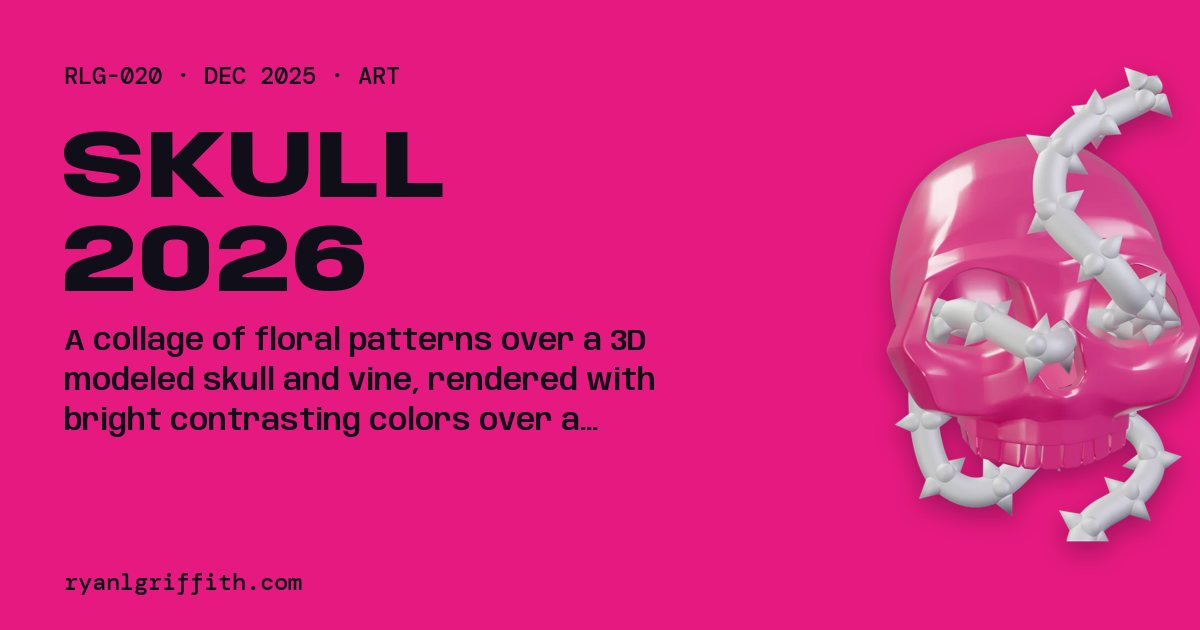
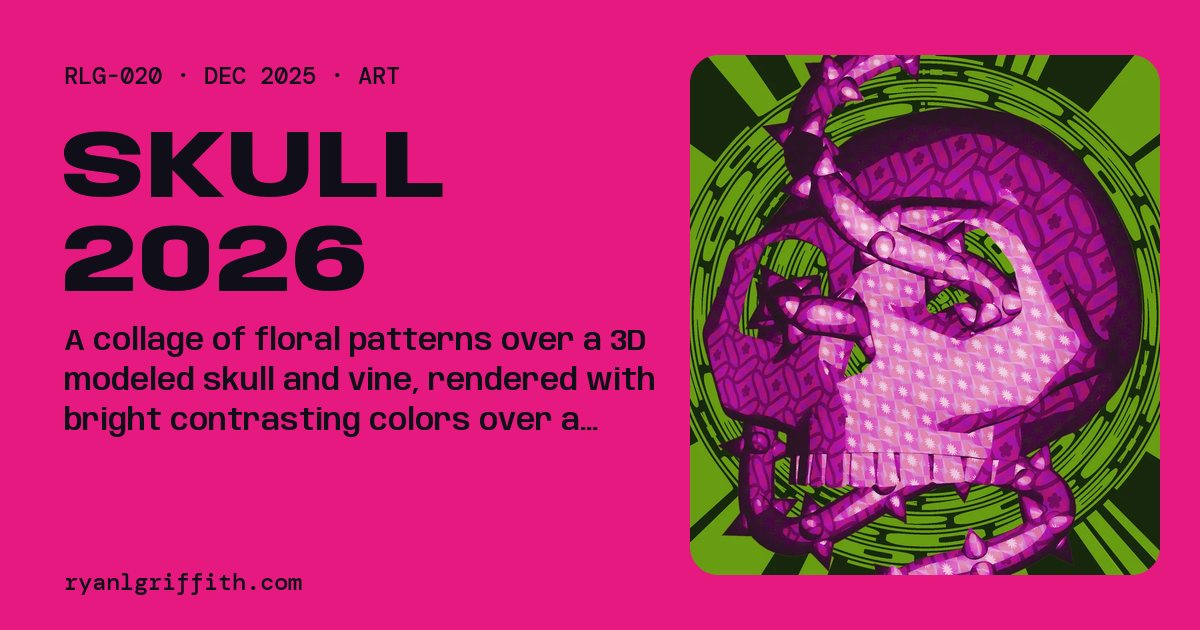
Remove the about desk; show Skull 2026's artwork, not a render
- About: the draggable desk is gone, along with everything only it used:
  the drag code in site.js, its styles, the six sprites in
  final/media/flair, the sprite step and clear_background() in
  build_final.py, and its two tests. The six source sprites in
  prototypes/_shared/media/archive are no longer tracked; they stay on
  disk for the Catalogue prototype.
- Skull 2026 uses a new "photo" cut-out kind in place of the Blender
  render: the artwork itself, square and opaque. Its cards show it
  colourised like any photo tile. Its project header shows it
  colourised in a framed square, with the true colours on hover. Its
  share card shows the artwork as-is. Only the skull's cut-out, its
  share card and its ProjectMeta row changed in the rebuild.

node prototypes/_tools/test_final.mjs --all-projects: 246 checks
passed, 0 failed (the two desk checks are gone).

diff --git a/final/assets/css/site.css b/final/assets/css/site.css
@@ -349,8 +349,13 @@ a:hover .arr, button:hover .arr { transform: translateX(4px); }
 .tag { display: inline-flex; align-items: center; height: 30px; padding: 0 12px; border-radius: 999px; border: 1.5px solid currentColor; font: 500 12px/1 var(--mono); letter-spacing: .04em; text-transform: uppercase; }
 .phead__cut { position: relative; }
 .phead__cut img { width: 100%; max-height: 62vh; object-fit: contain; animation: bob 7s ease-in-out infinite; }
+/* a "photo" cut-out: the artwork itself, colourised like the tiles, in its true colours on hover */
+.phead__photo { position: relative; aspect-ratio: 1; width: min(100%, 62vh); justify-self: end; border-radius: 22px; overflow: hidden; isolation: isolate;
+  background: var(--bg); background: color-mix(in srgb, var(--bg) 90%, #fff); }
+.t-lime .phead__photo, .t-paper .phead__photo, .t-pink .phead__photo { background: var(--bg); background: color-mix(in srgb, var(--bg) 93%, #0f0e19); }
+.phead__photo:hover .pimg img { filter: none; mix-blend-mode: normal; }
 @keyframes bob { 50% { transform: translateY(-10px) rotate(-1deg); } }
-@media (max-width: 860px) { .phead__grid { grid-template-columns: minmax(0, 1fr); } .phead__cut { max-width: 520px; } }
+@media (max-width: 860px) { .phead__grid { grid-template-columns: minmax(0, 1fr); } .phead__cut { max-width: 520px; } .phead__photo { width: min(100%, 520px); justify-self: start; } }
 .dossier { padding: 0 var(--gut); }
 .dossier__grid { display: grid; grid-template-columns: repeat(4, minmax(0, 1fr)); }
 .dossier__grid > div { display: grid; gap: 6px; padding: 18px 16px 18px 0; border-bottom: 1px solid var(--rule); min-width: 0; }
@@ -411,17 +416,6 @@ a:hover .arr, button:hover .arr { transform: translateX(4px); }
 .bio { padding: clamp(32px, 4vw, 64px) var(--gut) clamp(48px, 6vw, 100px); display: grid; grid-template-columns: minmax(0, 4fr) minmax(0, 8fr); gap: clamp(24px, 4vw, 64px); }
 .bio__lede { font-family: var(--display); font-weight: 650; font-stretch: 100%; font-size: clamp(22px, 2.2vw, 34px); line-height: 1.15; letter-spacing: -.015em; }
 .bio .prose { font-size: 18px; max-width: 64ch; }
-.desk { padding-bottom: clamp(56px, 7vw, 110px); }
-.desk__area { position: relative; display: grid; grid-template-columns: repeat(5, minmax(0, 1fr)); gap: clamp(10px, 2vw, 28px); padding: clamp(14px, 2vw, 28px) var(--gut); margin: 0 var(--gut);
-  border-radius: 28px; background: radial-gradient(circle at 20% 20%, rgba(129, 115, 204, .22), transparent 55%), repeating-linear-gradient(0deg, rgba(217, 212, 226, .07) 0 1px, transparent 1px 40px),
-  repeating-linear-gradient(90deg, rgba(217, 212, 226, .07) 0 1px, transparent 1px 40px), #17142b; touch-action: pan-y; }
-.flair { position: relative; display: grid; place-items: center; aspect-ratio: 1; transform: translate(var(--x, 0px), var(--y, 0px)) rotate(var(--r, 0deg)); cursor: grab; user-select: none; -webkit-user-select: none; transition: filter .2s; }
-.flair img { width: 100%; height: 100%; object-fit: contain; pointer-events: none; -webkit-user-drag: none; }
-.flair--sprite img { width: 62%; height: 62%; image-rendering: pixelated; }
-.flair:hover { filter: drop-shadow(0 10px 18px rgba(0, 0, 0, .45)); z-index: 5; }
-.flair.is-drag { cursor: grabbing; z-index: 6; filter: drop-shadow(0 16px 26px rgba(0, 0, 0, .55)); transition: none; }
-@media (max-width: 1000px) { .desk__area { grid-template-columns: repeat(3, minmax(0, 1fr)); } }
-@media (max-width: 560px) { .desk__area { grid-template-columns: repeat(2, minmax(0, 1fr)); } }
 .stickers { display: grid; grid-template-columns: repeat(4, minmax(0, 1fr)); gap: clamp(16px, 2vw, 28px); padding: 0 var(--gut) clamp(56px, 7vw, 110px); }
 .sticker { position: relative; padding: 14px; border-radius: 22px; display: flex; flex-direction: column; gap: 12px; transform: rotate(var(--r, 0deg)); transition: transform .3s var(--ease); }
 .sticker:hover { transform: rotate(0deg) translateY(-4px); }

diff --git a/final/assets/js/site.js b/final/assets/js/site.js
@@ -1,7 +1,7 @@
 /* RyanLGriffith.com: behaviour layered on top of what PHP already rendered, so every page still
    reads without it. Shared: the menu, the search palette (/ or Ctrl+K), stretch-to-fit type,
    reveals, counters and the lightbox. Per page: the work index filters, the project gallery, the
-   arcade, the about desk and certificates. */
+   arcade and the about page's certificates. */
 (function () {
   'use strict';
   const doc = document.documentElement;
@@ -207,7 +207,7 @@
     const PAGES = [
       { t: 'Home', h: './', w: 'home start front' },
       { t: 'Work — every project', h: 'portfolio.php', w: 'work index portfolio projects all timeline' },
-      { t: 'About Ryan', h: 'about.php', w: 'about bio toolbox tools certifications certificates desk' },
+      { t: 'About Ryan', h: 'about.php', w: 'about bio toolbox tools certifications certificates' },
       { t: 'Demos — play in the browser', h: 'demos.php', w: 'demos arcade games pico-8 pico8 play' },
       { t: 'Contact', h: '#contact', w: 'contact github linkedin email hello' },
     ];
@@ -549,51 +549,12 @@
     if (location.hash.length > 1) fromHash();
   }
 
-  /* ------------------------------------------------------------ about: certificates and the desk */
+  /* ------------------------------------------------------------ about: certificates */
   function certificates() {
     const btns = $$('[data-cert]');
     if (!btns.length) return;
     const list = btns.map((b) => ({ src: b.dataset.src, cap: b.dataset.cap, alt: b.dataset.cap }));
     btns.forEach((b, i) => b.addEventListener('click', () => lightbox(list, i, { title: 'Certifications' })));
-  }
-  function desk() {
-    const area = $('#desk');
-    if (!area) return;
-    let z = 10;
-    $$('.flair', area).forEach((el) => {
-      let sx = 0, sy = 0, ox = 0, oy = 0, id = null, moved = false, lim = null;
-      el.addEventListener('dragstart', (e) => e.preventDefault());
-      el.addEventListener('pointerdown', (e) => {
-        if (e.button !== 0 || id !== null) return;
-        id = e.pointerId;
-        moved = false;
-        sx = e.clientX;
-        sy = e.clientY;
-        ox = parseFloat(el.style.getPropertyValue('--x')) || 0;
-        oy = parseFloat(el.style.getPropertyValue('--y')) || 0;
-        const w = el.offsetWidth, h = el.offsetHeight;
-        lim = { x0: -el.offsetLeft, x1: area.clientWidth - el.offsetLeft - w, y0: -el.offsetTop, y1: area.clientHeight - el.offsetTop - h };
-        try { el.setPointerCapture(id); } catch (err) { /* capture is a nicety */ }
-      });
-      el.addEventListener('pointermove', (e) => {
-        if (e.pointerId !== id) return;
-        const dx = e.clientX - sx, dy = e.clientY - sy;
-        if (!moved && Math.hypot(dx, dy) < 6) return;
-        if (!moved) { moved = true; el.classList.add('is-drag'); el.style.zIndex = String(++z); }
-        const x = Math.max(lim.x0, Math.min(lim.x1, ox + dx)), y = Math.max(lim.y0, Math.min(lim.y1, oy + dy));
-        el.style.setProperty('--x', `${Math.round(x)}px`);
-        el.style.setProperty('--y', `${Math.round(y)}px`);
-      });
-      const end = (e) => {
-        if (e.pointerId !== id) return;
-        id = null;
-        el.classList.remove('is-drag');
-        if (moved) setTimeout(() => { moved = false; }, 0);
-      };
-      el.addEventListener('pointerup', end);
-      el.addEventListener('pointercancel', end);
-      el.addEventListener('click', (e) => { if (moved) { e.preventDefault(); moved = false; } });
-    });
   }
 
   /* ------------------------------------------------------------ start */
@@ -602,7 +563,7 @@
   if (page === 'portfolio') work();
   if (page === 'project') gallery();
   if (page === 'demos') arcade();
-  if (page === 'about') { certificates(); desk(); }
+  if (page === 'about') certificates();
   $$('.band__word').forEach(split);
   fit();
   fitDown();

diff --git a/prototypes/_tools/build_final.py b/prototypes/_tools/build_final.py
@@ -11,7 +11,7 @@ final/data/portfolio.db
   Demos, Certifications
 final/media/p/<slug>/           web copies of every project image: stills as WebP (lossless for
                                 pixel art), animations as animated WebP
-final/media/thumbs, certs, about, flair
+final/media/thumbs, certs, about
 final/demos/<slug>/             the playable PICO-8 builds
 final/assets/data/globe-dots.js
 Originals stay where they are (_assets/, the project folders); only web copies go into final/.
@@ -27,57 +27,9 @@ FINAL = REPO / "final"
 SHARED = REPO / "prototypes" / "_shared"
 PIXEL = re.compile(r"the-kingdom|density|gatsby|rotation|typhlosion|deepwell|hollowdeep|interloper")
 MONTHS = ["January", "February", "March", "April", "May", "June", "July", "August", "September", "October", "November", "December"]
-FLAIR = ["toucan.gif", "cherries.gif", "ship-firing.gif", "jett.gif", "anchor.gif", "freemovie.gif"]
-# sprites drawn on a solid backdrop: the desk gets them as transparent animated WebP instead
-CLEAR_BG = {"ship-firing.gif", "jett.gif", "anchor.gif"}
 # The live table lists disciplines alphabetically, but the site colours a project by its first one,
 # so projects whose main discipline is not first alphabetically are listed lead-first here.
 LEAD = {"bl4s-2026": ["engineer", "program", "art"]}
-
-
-def clear_background(src, dst):
-    """Saves a pixel sprite as lossless animated WebP with the backdrop around the drawing made
-    transparent. The fill runs in from the edges, so pixels of the backdrop colour enclosed by the
-    drawing (a face, the hole in a ring) keep their colour."""
-    im = Image.open(src)
-    frames, durations = [], []
-    for fr in ImageSequence.Iterator(im):
-        f = fr.convert("RGBA")
-        durations.append(fr.info.get("duration", im.info.get("duration", 100)) or 100)
-        w, h = f.size
-        px = f.load()
-        bg = px[0, 0][:3]
-        stack = [(x, y) for x in range(w) for y in (0, h - 1)] + [(x, y) for y in range(h) for x in (0, w - 1)]
-        seen = set()
-        while stack:
-            x, y = stack.pop()
-            if not (0 <= x < w and 0 <= y < h) or (x, y) in seen:
-                continue
-            seen.add((x, y))
-            if px[x, y][3] == 0 or px[x, y][:3] != bg:
-                continue
-            px[x, y] = (0, 0, 0, 0)
-            stack += [(x + 1, y), (x - 1, y), (x, y + 1), (x, y - 1)]
-        frames.append(f)
-    frames[0].save(dst, format="WEBP", save_all=True, append_images=frames[1:], duration=durations, loop=0, lossless=True, quality=100, method=6)
-    # the animation must play back exactly these frames at the same times (the encoder may merge
-    # identical neighbours into one longer frame, which is fine)
-    dec = Image.open(dst)
-    out, starts, t = [], [], 0
-    for f in ImageSequence.Iterator(dec):
-        out.append(f.convert("RGBA"))
-        starts.append(t)
-        t += f.info.get("duration", 0)
-    assert t == sum(durations), f"{dst.name}: plays {t} ms, source {sum(durations)} ms"
-    t = 0
-    for a, d in zip(frames, durations):
-        b = out[max(k for k, s in enumerate(starts) if s <= t)]
-        pa, pb = a.load(), b.load()
-        for y in range(a.height):
-            for x in range(a.width):
-                if pa[x, y][3] != pb[x, y][3] or (pa[x, y][3] and pa[x, y][:3] != pb[x, y][:3]):
-                    raise AssertionError(f"{dst.name}: frame at {t} ms differs at {x},{y}")
-        t += d
 
 
 def load_data():
@@ -243,16 +195,6 @@ def main():
     pr = data["profile"]
     for key in ("portrait", "portraitDuo"):
         web_copy(pr[key], "media/about")
-    flair = FINAL / "media" / "flair"
-    flair.mkdir(parents=True, exist_ok=True)
-    for stale in ("alien-ships.webp", "casio.webp", *CLEAR_BG):
-        (flair / stale).unlink(missing_ok=True)
-    for name in FLAIR:
-        src = SHARED / "media" / "archive" / name
-        if name in CLEAR_BG:
-            clear_background(src, flair / (Path(name).stem + ".webp"))
-        else:
-            shutil.copy2(src, flair / name)
     (FINAL / "assets" / "data").mkdir(parents=True, exist_ok=True)
     shutil.copy2(SHARED / "data" / "globe-dots.js", FINAL / "assets" / "data" / "globe-dots.js")
     print("tables", counts)

diff --git a/final/about.php b/final/about.php
@@ -24,10 +24,6 @@ $tools = [
     ['Design', 't-pink', [['SolidWorks', 'CSWA', ['solidworks']], ['Blender', 'Modelling', ['blender']], ['Photoshop', 'Certified', ['photoshop']],
         ['Illustrator', 'Vector', ['illustrator']], ['Pixel art', 'Aseprite', ['pixel']]]],
 ];
-// cut-outs on the desk link to their projects; the pixel sprites are just for fun
-$desk = [['custom-calc', 'Custom Calculator'], ['skull-2026', 'Skull 2026'], ['bl4s-2026', 'BL4S SiPM board'], ['mp3-player', 'MP3 player concept'],
-    ['ryan-logo', 'The RY/AN logo'], ['jpl-2025', 'JPL 2025 parts'], ['wheels', 'Wheels watch face'], ['micro', 'Micro'], ['disk-launcher', 'Disk launcher']];
-$sprites = [['toucan.gif', 'Toucan'], ['cherries.gif', 'Cherries'], ['ship-firing.webp', 'Ship, firing'], ['jett.webp', 'Jett'], ['anchor.webp', 'Anchor'], ['freemovie.gif', 'Install FreeMovie.exe?']];
 page_head([
     'title' => 'About Ryan L. Griffith — CS at CU Boulder, CERN BL4S 2026 winner',
     'description' => 'Ryan L. Griffith is a programmer, engineer and artist studying computer science at CU Boulder, and part of Team Centauri Stars, a CERN Beamline for Schools 2026 winner.',
@@ -65,18 +61,6 @@ page_head([
   <section class="bio t-grey" aria-label="Biography">
     <p class="bio__lede"><?= e($pr['about'][0]) ?></p>
     <div class="prose"><?php foreach (array_slice($pr['about'], 1) as $t): ?><p><?= e($t) ?></p><?php endforeach; ?></div>
-  </section>
-
-  <section class="desk t-ink" aria-labelledby="desk-title">
-    <div class="shead"><h2 class="h2" id="desk-title">Desk.</h2><p>Bits of the projects, cut out and left on the desk. Drag them around; click one to open its project.</p></div>
-    <div class="desk__area" id="desk">
-      <?php foreach ($desk as $i => [$slug, $label]): $p = project($slug); if (!$p || !$p['cut']) { continue; } ?>
-      <a class="flair" href="project.php?id=<?= e($slug) ?>" style="--r:<?= (($i * 53) % 13) - 6 ?>deg" draggable="false"><?= img($p['cut'], $label) ?></a>
-      <?php endforeach; ?>
-      <?php foreach ($sprites as $i => [$file, $label]): ?>
-      <span class="flair flair--sprite" style="--r:<?= (($i * 31) % 11) - 5 ?>deg" aria-hidden="true"><img src="media/flair/<?= e($file) ?>" alt="" width="64" height="64" loading="lazy" draggable="false"></span>
-      <?php endforeach; ?>
-    </div>
   </section>
 
   <section class="t-grey" aria-labelledby="cred-title">

diff --git a/prototypes/_tools/make_final_media.py b/prototypes/_tools/make_final_media.py
@@ -5,7 +5,8 @@ Run after render_final.py (Blender), final_logos.mjs and final_fonts.py:
 
 final/media/cut/<slug>.webp   a transparent asset per project: studio renders for hardware, the
                               screenshot in a window for software and games, a die-cut sticker
-                              for art, a round face for the watch face
+                              for art, a round face for the watch face. A "photo" is the artwork
+                              itself, square and opaque; the site shows it colourised like a photo.
 final/media/og/<slug>.jpg     1200 x 630 share cards, in the project's discipline colour
 final/media/og/site.jpg       the site's share card
 final/favicon.ico, icon-*.png
@@ -33,7 +34,7 @@ KIND = {
     "bl4s-2026": ("render", RENDERS / "bl4s_board.png"),
     "disk-launcher": ("render", RENDERS / "launcher.png"),
     "jpl-2025": ("render", RENDERS / "jpl_parts.png"),
-    "skull-2026": ("render", RENDERS / "skull.png"),
+    "skull-2026": ("photo", None),      # the artwork itself, colourised, rather than a render of the skull
     "mp3-player": ("render", GEN / "mp3_concept_hero.webp"),
     "ryan-logo": ("logo", CACHE / "logos" / "mark-indigo.png"),
     "wheels": ("watch", None),
@@ -207,6 +208,8 @@ def make_cuts(projects):
             im = sticker(thumb, angle_for(slug))
         elif kind == "diecut":
             im = diecut(REPO / p["images"][0]["src"], angle_for(slug))
+        elif kind == "photo":
+            im = cover(Image.open(REPO / p["images"][0]["src"]).convert("RGB"), 1100, 1100)
         elif kind == "watch":
             im = watch(thumb)
         elif kind == "logo":
@@ -266,7 +269,7 @@ def og_project(p, cut):
         d.text((64, yy + 18), line, font=semi, fill=rgba(fg))
         yy += 40
     d.text((64, 566), "ryanlgriffith.com", font=mono, fill=rgba(fg))
-    if cut:
+    if cut and cut["kind"] != "photo":
         art = Image.open(FINAL / cut["src"]).convert("RGBA")
         art.thumbnail((500, 520))
         im.alpha_composite(art, (1200 - 40 - art.width + (500 - art.width) // 2, (630 - art.height) // 2))

diff --git a/final/inc/layout.php b/final/inc/layout.php
@@ -160,10 +160,11 @@ function corners(string $c = ''): string
     return '<i class="rc' . ($c ? ' rc--' . e($c) : '') . '" aria-hidden="true"></i>';
 }
 
-/* the image for a project panel: its transparent cut-out when there is one, else the thumbnail */
+/* the image for a project panel: its transparent cut-out when there is one, else the thumbnail,
+   colourised (a "photo" cut-out is the artwork itself, so panels show the thumbnail like any photo) */
 function panel_img(array $p, bool $eager = false): string
 {
-    if ($p['cut']) {
+    if ($p['cut'] && $p['cut']['kind'] !== 'photo') {
         return '<div class="pimg pimg--cut">' . img($p['cut'], '', '', $eager) . '</div>';
     }
     return '<div class="pimg' . ($p['pixel'] ? ' pimg--pixel' : '') . '">' . img($p['thumb'], '', '', $eager) . '</div>';

diff --git a/final/project.php b/final/project.php
@@ -58,7 +58,8 @@ page_head([
           <?php if ($p['status']): ?><span class="tag"><?= e($p['status']) ?></span><?php endif; ?>
         </div>
       </div>
-      <?php if ($p['cut']): ?><div class="phead__cut"><?= img($p['cut'], '', '', true) ?></div><?php endif; ?>
+      <?php if ($p['cut'] && $p['cut']['kind'] === 'photo'): ?><div class="phead__photo"><div class="pimg<?= $p['pixel'] ? ' pimg--pixel' : '' ?>"><?= img($p['cut'], '', '', true) ?></div><?= corners() ?></div>
+      <?php elseif ($p['cut']): ?><div class="phead__cut"><?= img($p['cut'], '', '', true) ?></div><?php endif; ?>
     </div>
   </header>
 

diff --git a/final/README.md b/final/README.md
@@ -52,13 +52,13 @@ On nginx or another server without `.htaccess`, add rules that deny `/data/` and
 | `index.php` | Home: role bands, intro, marquee, featured deck, globe, numbers, latest mosaic, koi pond |
 | `portfolio.php` | Work index: filter, search, sort, list view, the block timeline |
 | `project.php?id=<slug>` | One project: header cut-out, data strip, gallery and lightbox, write-up, older/newer |
-| `about.php` | About: hello and portrait, toolbox (with how many projects use each tool), bio, desk, certificates |
+| `about.php` | About: hello and portrait, toolbox (with how many projects use each tool), bio, certificates |
 | `demos.php` | Arcade: the five PICO-8 games, played in the page (`demos.php#<slug>` opens one) |
 | `404.php`, `sitemap.php`, `robots.txt`, `site.webmanifest`, `favicon.*` | Error page and search-engine files |
 | `inc/site.php` | Settings, the database, and helpers. Also the footer line `CTA_LINE`. |
 | `inc/layout.php` | Page head (all metadata), nav, footer, feed, search palette and shared pieces |
 | `assets/css/site.css` | All styles |
-| `assets/js/site.js` | Menu, search palette (`/` or Ctrl+K), filters, gallery, lightbox, arcade, desk |
+| `assets/js/site.js` | Menu, search palette (`/` or Ctrl+K), filters, gallery, lightbox, arcade, certificates |
 | `assets/js/globe.js`, `assets/js/pond.js` | The globe and the koi pond (Canvas 2D) |
 | `assets/fonts/` | Anybody, Instrument Sans and DM Mono, self-hosted (SIL Open Font License) |
 | `assets/img/` | The logo mark and the horizontal RYAN word mark, as SVG |
@@ -88,7 +88,7 @@ interaction on top.
 | --- | --- |
 | `PortfolioTabs` | One row per project: `id, slug, title, date, unixdate, description, thumbnail, categories` (same as before) |
 | `PortfolioPage` | One row per project: `id, slug, title, date, description, whatilearned, takeaway, images` (same as before) |
-| `ProjectMeta` | Optional extras per slug: `iso` date, `featured`, `is_new`, `summary`, `stack` (JSON list), `highlights` (JSON list), `status`, `repo`, `demo`, `note`, thumbnail size and tone, `pixel` (crisp scaling), the transparent `cutout`, the `og` share card |
+| `ProjectMeta` | Optional extras per slug: `iso` date, `featured`, `is_new`, `summary`, `stack` (JSON list), `highlights` (JSON list), `status`, `repo`, `demo`, `note`, thumbnail size and tone, `pixel` (crisp scaling), the `cutout` (a transparent asset; with `cutout_kind` `photo` it is the artwork itself, shown colourised like the photos), the `og` share card |
 | `ProjectImages` | Gallery images per slug: `position, path, width, height, animated, caption` |
 | `Demos` | The arcade cartridges: `slug, position, title, path, blurb, poster, iso` |
 | `Certifications` | `position, title, short, issuer, iso, image, width, height` |
@@ -138,7 +138,7 @@ The test starts its own `php -S` and checks the following in headless Chrome:
 
 - every page at phone, tablet, laptop and wide sizes, for overlapping or cut-off text, sideways
   scrolling, broken images, console errors and PHP warnings;
-- the filters, search, gallery, lightbox, arcade, desk, menu, globe and pond;
+- the filters, search, gallery, lightbox, certificates, arcade, menu, globe and pond;
 - the metadata, sitemap and robots.txt;
 - the pages with scripts turned off;
 - a project added the old way.
